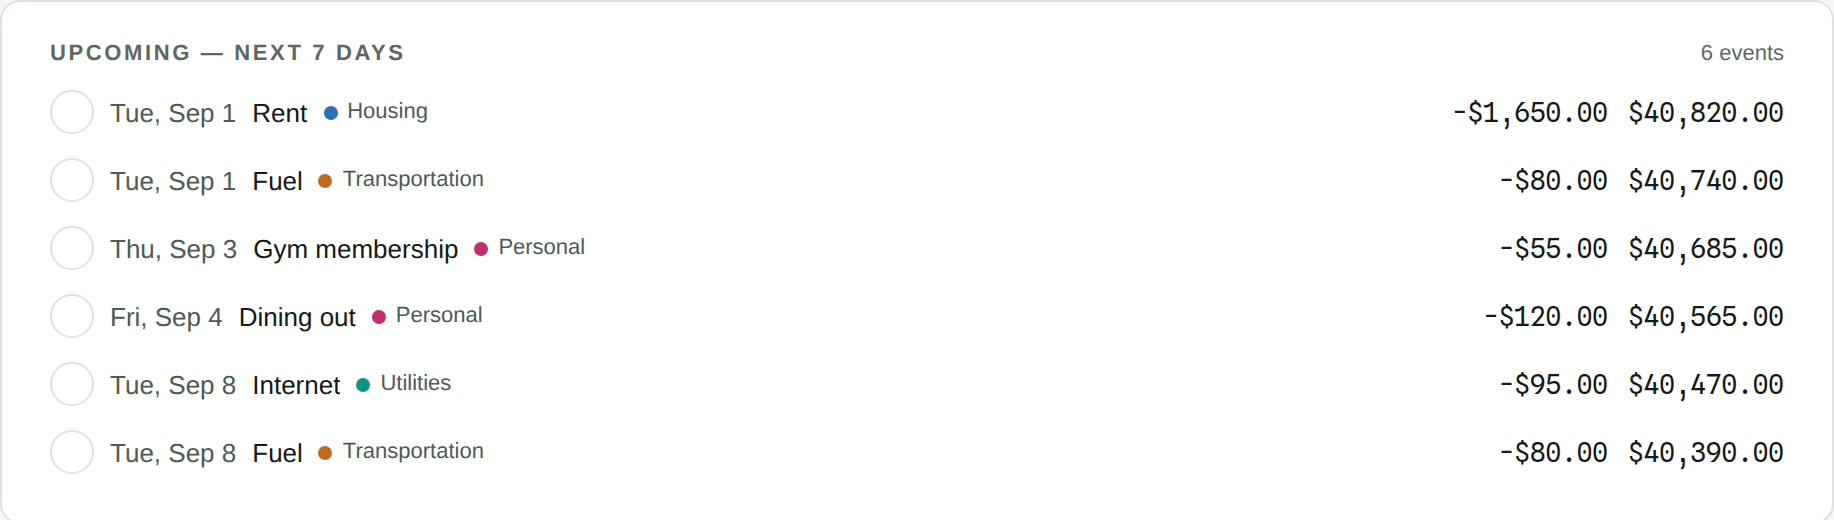
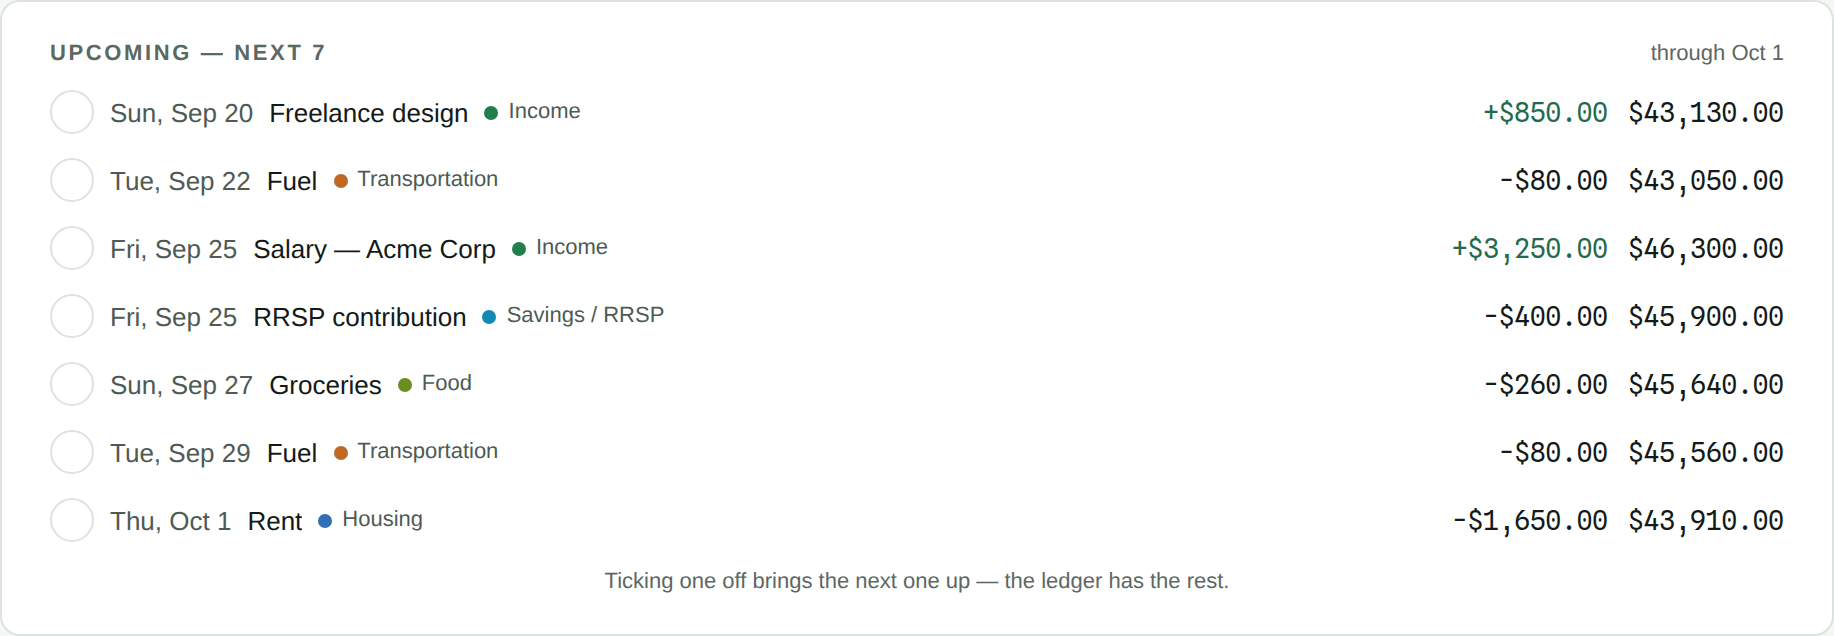
Upcoming is the next seven outstanding, not the next seven days
Reported as the card showing only two items. Two causes, and the second
is the one that was asked for.

The bug first. The card read activeFlow — one budget year — and filtered
it to a seven-day window. Seven days from the 28th of December end on
the 4th of January, so the January half of the week was not missing from
the card, it was missing from the array the card filters. Four things
due showed two, and the header count said "2 events" alongside, so
nothing on screen contradicted anything else: a panel whose job is
"nothing is about to surprise you" quietly holding back half of what was
coming. It reads every budget year now, through viewFlows, which already
carries the account view the rest of Today is in and whose per-year
opening balances carry from the last — so a row on 2 January still shows
a balance that follows on from 31 December.

That was not what the reporter hit, though: a mid-September week cannot
trigger it. Their week genuinely held two things, and a card that empties
out or fills up with the shape of the week is not much use. So the card
is now a count rather than a window: the next seven still outstanding,
in date order, however far ahead they reach. Ticking one off drops it and
brings the next one up, which is the whole point of counting items. That
makes reading every year matter more, not less — the seventh thing ahead
crosses into next year routinely, not just at New Year.

The heading carries what the reader cannot otherwise see. "Next 7" with
[…]

diff --git a/index.html b/index.html
@@ -5244,7 +5244,7 @@ document.addEventListener('DOMContentLoaded',function(){
     },
     "dashboard-upcoming": {
       "w": 917,
-      "h": 260
+      "h": 318
     },
     "plan-goals": {
       "w": 917,
@@ -14604,7 +14604,7 @@ Fill every field of the response schema. Rules:
       ) : /* @__PURE__ */ React.createElement("div", { className: "txl" }, "Compare ", MONTHS[thisMonth], " with ", MONTHS[delta.prevMonth], " and have Claude pick out what moved.")
     );
   }
-  function DashboardView({ apiKey = "", isOffline = false, flow, openBal, yearFlows, yearConfigs, alertThreshold, activeYear, budgetTargets = {}, categories = [], categoryColors = {}, users = [], sessionUser = null, entries = [], toggleComplete = () => {
+  function DashboardView({ apiKey = "", isOffline = false, flow, openBal, yearFlows, viewFlows = null, yearConfigs, alertThreshold, activeYear, budgetTargets = {}, categories = [], categoryColors = {}, users = [], sessionUser = null, entries = [], toggleComplete = () => {
   }, setYearConfigs = () => {
   }, addEntry = () => {
   }, setTab = () => {
@@ -15019,7 +15019,7 @@ Fill every field of the response schema. Rules:
       { id: "balanceToday", label: "Balance today", size: "third" },
       { id: "nextLow", label: "Next low point", size: "third" },
       { id: "dueMonth", label: "Due rest of month", size: "third" },
-      { id: "upcoming", label: "Upcoming this week", size: "full" },
+      { id: "upcoming", label: "Upcoming \u2014 next 7", size: "full" },
       { id: "endingSoon", label: "Ending-soon chips", size: "full" },
       { id: "monthlyBrief", label: "What changed this month (AI)", size: "full" },
       { id: "kpis", label: "KPI tiles", size: "full" },
@@ -15115,17 +15115,42 @@ Fill every field of the response schema. Rules:
       })()),
       upcoming: () => /* @__PURE__ */ React.createElement(React.Fragment, null, (() => {
         const today = startOfToday();
-        const in7 = new Date(today);
-        in7.setDate(today.getDate() + 7);
-        // The card shows the first six so it stays a glance. The count beside
-        // the header used to be that *shown* length, so a week with nine things
-        // due read "6 events" and the other three were nowhere — on a card
-        // whose whole job is "nothing is about to surprise you". The count is
-        // the real total now, and a footer says what is not on the card.
-        const dueThisWeek = flow.filter((ev) => ev.date >= today && ev.date <= in7 && !completed[ev.id]).sort((a, b) => a.date - b.date);
-        const upcoming = dueThisWeek.slice(0, 6);
+        // The next seven things still outstanding — a count of items, not a
+        // window of days. It used to be "everything due in the next seven
+        // days, capped at six", which made the card a hostage to the shape of
+        // the week: a quiet stretch showed two rows and looked broken, and a
+        // busy one hid the tail behind a footnote. Neither is what the card is
+        // for. Seven things, always, however far ahead they reach.
+        //
+        // Read across every budget year rather than the active one. That was
+        // already wrong for a week straddling New Year — seven days from the
+        // 28th of December end on the 4th of January, and filtering a single
+        // year's events by that range left the January half not missing from
+        // the card but missing from the array the card filters, with the
+        // count agreeing so nothing on screen contradicted anything else. It
+        // matters more now: the seventh item ahead crosses into next year
+        // routinely, not just at New Year.
+        //
+        // viewFlows is keyed by year and already carries the account view the
+        // rest of the page is in, and each year's opening balance carries from
+        // the last, so a row on 2 January still shows a balance that follows
+        // on from 31 December.
+        const byYear = viewFlows || { [activeYear]: flow };
+        const ahead = Object.keys(byYear).reduce((acc, y) => acc.concat(byYear[y] || []), [])
+          .filter((ev) => ev.date >= today && !completed[ev.id])
+          .sort((a, b) => a.date - b.date);
+        const upcoming = ahead.slice(0, 7);
         if (upcoming.length === 0) return null;
-        return /* @__PURE__ */ React.createElement(Card, { className: "mb-16" }, /* @__PURE__ */ React.createElement("div", { className: "upcoming-header-row" }, /* @__PURE__ */ React.createElement("span", { className: "upcoming-hdr-label" }, "Upcoming \u2014 Next 7 Days"), /* @__PURE__ */ React.createElement("span", { className: "upcoming-count" }, dueThisWeek.length, " event", dueThisWeek.length !== 1 ? "s" : "")), /* @__PURE__ */ React.createElement("div", { className: "upcoming-list" }, upcoming.map((ev) => {
+        const lastShown = upcoming[upcoming.length - 1].date;
+        return /* @__PURE__ */ React.createElement(Card, { className: "mb-16" }, /* @__PURE__ */ React.createElement("div", { className: "upcoming-header-row" }, /* @__PURE__ */ React.createElement("span", { className: "upcoming-hdr-label" }, "Upcoming \u2014 Next 7"), /* @__PURE__ */ React.createElement("span", { className: "upcoming-count" },
+          // How far ahead those seven reach. A bare "7 events" beside a
+          // heading that says Next 7 tells the reader nothing they cannot
+          // already see; the date they run out to is the thing they cannot.
+          // When fewer than seven remain, that is the more useful fact.
+          upcoming.length < 7
+            ? `${upcoming.length} left this year`
+            : `through ${lastShown.toLocaleDateString("en-US", { month: "short", day: "numeric" })}`
+        )), /* @__PURE__ */ React.createElement("div", { className: "upcoming-list" }, upcoming.map((ev) => {
           const d = ev.date;
           const label = d.toLocaleDateString("en-US", { weekday: "short", month: "short", day: "numeric" });
           const signed = signedAmount(ev);
@@ -15171,7 +15196,7 @@ Fill every field of the response schema. Rules:
           } }, isInc ? "+" : "-", fmt(ev.amount)), /* @__PURE__ */ React.createElement("span", { className: "cf-text-mono-13", style: {
             color: balColor
           } }, fmt(ev.balance)))), barDiv);
-        })), dueThisWeek.length > upcoming.length && /* @__PURE__ */ React.createElement("div", { className: "upcoming-more-note" }, "+ ", dueThisWeek.length - upcoming.length, " more in the next 7 days \u2014 open the ledger to see them"));
+        })), ahead.length > upcoming.length && /* @__PURE__ */ React.createElement("div", { className: "upcoming-more-note" }, "Ticking one off brings the next one up \u2014 the ledger has the rest."));
       })()),
       monthlyBrief: () => /* @__PURE__ */ React.createElement(MonthlyBriefCard, { flow, activeYear, categories, apiKey, isOffline }),
       kpis: () => /* @__PURE__ */ React.createElement(React.Fragment, null, /* @__PURE__ */ React.createElement("div", { className: "kpi-grid-4" }, /* @__PURE__ */ React.createElement(Card, { className: "kpi-tile" }, /* @__PURE__ */ React.createElement("div", { className: "lbl mb-5" }, "Annual Income"), /* @__PURE__ */ React.createElement("div", { className: "kpi-spark-row" }, /* @__PURE__ */ React.createElement("div", { className: "kpi-spark-value", style: { color: "var(--greenDk)" } }, fmt(totalIncome)), /* @__PURE__ */ React.createElement(Sparkline, { data: summaries.map((m) => m.income), height: 28, width: 64 }))), /* @__PURE__ */ React.createElement(Card, { className: "kpi-tile" }, /* @__PURE__ */ React.createElement("div", { className: "lbl mb-5" }, "Annual Expenses"), /* @__PURE__ */ React.createElement("div", { className: "kpi-spark-row" }, /* @__PURE__ */ React.createElement("div", { className: "kpi-spark-value", style: { color: "var(--text)" } }, fmt(totalExpense)), /* @__PURE__ */ React.createElement(Sparkline, { data: summaries.map((m) => m.expense), height: 28, width: 64 }))), /* @__PURE__ */ React.createElement(Card, { className: "kpi-tile" }, /* @__PURE__ */ React.createElement("div", { className: "lbl mb-5" }, "Net Surplus/Deficit"), /* @__PURE__ */ React.createElement("div", { className: "kpi-spark-row" }, /* @__PURE__ */ React.createElement("div", { className: "kpi-spark-value", style: { color: netSurplus >= 0 ? "var(--greenDk)" : "var(--red)" } }, fmt(netSurplus, true)), /* @__PURE__ */ React.createElement(Sparkline, { data: summaries.map((m) => m.surplus), height: 28, width: 64 })), netSurplus < 0 && /* @__PURE__ */ React.createElement("div", { className: "kpi-warn-note" }, "\u26A0 Spending exceeds income")), /* @__PURE__ */ React.createElement(Card, { className: "kpi-tile" }, /* @__PURE__ */ React.createElement("div", { className: "lbl mb-5" }, "Lowest Balance"), /* @__PURE__ */ React.createElement("div", { className: "kpi-spark-row" }, /* @__PURE__ */ React.createElement("div", { className: "kpi-spark-value", style: { color: lowestBal < 0 ? "var(--red)" : lowestBal < alertThreshold ? "var(--amberInk)" : "var(--text)" } }, fmt(lowestBal)), /* @__PURE__ */ React.createElement(Sparkline, { data: summaries.map((m) => m.close), height: 28, width: 64 })), /* @__PURE__ */ React.createElement("div", { className: "kpi-sub-note" }, "In ", lowestMon)))),
@@ -16016,11 +16041,11 @@ Fill every field of the response schema. Rules:
       title: "Today",
       blocks: [
         { p: "Today answers “am I all right?” at a glance, and every number on it is drawn from the same projection as the Budget tab." },
-        { shot: ["dashboard-upcoming", "Upcoming \u2014 next 7 days. The circle beside each row ticks it off; ticked rows drop out of this list."] },
+        { shot: ["dashboard-upcoming", "Upcoming \u2014 next 7. The circle beside each row ticks it off; a ticked row drops out and the next one moves up."] },
         { shot: ["dashboard-kpis", "The year as four numbers, each with a sparkline of its shape across the months."] },
         { defs: [
           ["Balance today · Next low point · Due rest of month", "The three tiles across the top: where you are now, the lowest balance coming up and how far away it is, and what is still to be paid this month."],
-          ["Upcoming — next 7 days", "Everything scheduled in the next week with its balance after, and a circle to tick each one off."],
+          ["Upcoming — next 7", "The next seven things still outstanding, each with the balance it leaves behind, and a circle to tick it off. Seven things rather than seven days: a quiet week would otherwise leave the card nearly empty, and a busy one would hide the tail of it behind a footnote. Ticking one off drops it and brings the next one up, and the heading says how far ahead the seven reach. It reads every budget year, so a run that crosses into January still shows the January half."],
           ["Annual income, expenses, surplus and lowest balance", "The year as four numbers, each with a sparkline of its shape across the months."],
           ["What changed", "A written comparison of this month against last, generated on demand when AI access is configured."],
           ["Charts", "Running balance, surplus or shortfall by month, income against expenses, top expense categories, income sources, and budget against actual for the year."],
@@ -20419,6 +20444,11 @@ Fill every field of the response schema. Rules:
         flow: activeFlow,
         openBal: activeOpenBal,
         yearFlows,
+        // Every budget year, in whatever account view the page is in. Today's
+        // "next 7 days" needs it: a week that starts in December ends in
+        // January, and activeFlow is one year, so the January half was simply
+        // not in the array to be found.
+        viewFlows,
         yearConfigs: sortedConfigs,
         alertThreshold: alertThresh,
         activeYear,

diff --git a/src/components/dashboard.js b/src/components/dashboard.js
@@ -114,7 +114,7 @@
       ) : /* @__PURE__ */ React.createElement("div", { className: "txl" }, "Compare ", MONTHS[thisMonth], " with ", MONTHS[delta.prevMonth], " and have Claude pick out what moved.")
     );
   }
-  function DashboardView({ apiKey = "", isOffline = false, flow, openBal, yearFlows, yearConfigs, alertThreshold, activeYear, budgetTargets = {}, categories = [], categoryColors = {}, users = [], sessionUser = null, entries = [], toggleComplete = () => {
+  function DashboardView({ apiKey = "", isOffline = false, flow, openBal, yearFlows, viewFlows = null, yearConfigs, alertThreshold, activeYear, budgetTargets = {}, categories = [], categoryColors = {}, users = [], sessionUser = null, entries = [], toggleComplete = () => {
   }, setYearConfigs = () => {
   }, addEntry = () => {
   }, setTab = () => {
@@ -529,7 +529,7 @@
       { id: "balanceToday", label: "Balance today", size: "third" },
       { id: "nextLow", label: "Next low point", size: "third" },
       { id: "dueMonth", label: "Due rest of month", size: "third" },
-      { id: "upcoming", label: "Upcoming this week", size: "full" },
+      { id: "upcoming", label: "Upcoming \u2014 next 7", size: "full" },
       { id: "endingSoon", label: "Ending-soon chips", size: "full" },
       { id: "monthlyBrief", label: "What changed this month (AI)", size: "full" },
       { id: "kpis", label: "KPI tiles", size: "full" },
@@ -625,17 +625,42 @@
       })()),
       upcoming: () => /* @__PURE__ */ React.createElement(React.Fragment, null, (() => {
         const today = startOfToday();
-        const in7 = new Date(today);
-        in7.setDate(today.getDate() + 7);
-        // The card shows the first six so it stays a glance. The count beside
-        // the header used to be that *shown* length, so a week with nine things
-        // due read "6 events" and the other three were nowhere — on a card
-        // whose whole job is "nothing is about to surprise you". The count is
-        // the real total now, and a footer says what is not on the card.
-        const dueThisWeek = flow.filter((ev) => ev.date >= today && ev.date <= in7 && !completed[ev.id]).sort((a, b) => a.date - b.date);
-        const upcoming = dueThisWeek.slice(0, 6);
+        // The next seven things still outstanding — a count of items, not a
+        // window of days. It used to be "everything due in the next seven
+        // days, capped at six", which made the card a hostage to the shape of
+        // the week: a quiet stretch showed two rows and looked broken, and a
+        // busy one hid the tail behind a footnote. Neither is what the card is
+        // for. Seven things, always, however far ahead they reach.
+        //
+        // Read across every budget year rather than the active one. That was
+        // already wrong for a week straddling New Year — seven days from the
+        // 28th of December end on the 4th of January, and filtering a single
+        // year's events by that range left the January half not missing from
+        // the card but missing from the array the card filters, with the
+        // count agreeing so nothing on screen contradicted anything else. It
+        // matters more now: the seventh item ahead crosses into next year
+        // routinely, not just at New Year.
+        //
+        // viewFlows is keyed by year and already carries the account view the
+        // rest of the page is in, and each year's opening balance carries from
+        // the last, so a row on 2 January still shows a balance that follows
+        // on from 31 December.
+        const byYear = viewFlows || { [activeYear]: flow };
+        const ahead = Object.keys(byYear).reduce((acc, y) => acc.concat(byYear[y] || []), [])
+          .filter((ev) => ev.date >= today && !completed[ev.id])
+          .sort((a, b) => a.date - b.date);
+        const upcoming = ahead.slice(0, 7);
         if (upcoming.length === 0) return null;
-        return /* @__PURE__ */ React.createElement(Card, { className: "mb-16" }, /* @__PURE__ */ React.createElement("div", { className: "upcoming-header-row" }, /* @__PURE__ */ React.createElement("span", { className: "upcoming-hdr-label" }, "Upcoming \u2014 Next 7 Days"), /* @__PURE__ */ React.createElement("span", { className: "upcoming-count" }, dueThisWeek.length, " event", dueThisWeek.length !== 1 ? "s" : "")), /* @__PURE__ */ React.createElement("div", { className: "upcoming-list" }, upcoming.map((ev) => {
+        const lastShown = upcoming[upcoming.length - 1].date;
+        return /* @__PURE__ */ React.createElement(Card, { className: "mb-16" }, /* @__PURE__ */ React.createElement("div", { className: "upcoming-header-row" }, /* @__PURE__ */ React.createElement("span", { className: "upcoming-hdr-label" }, "Upcoming \u2014 Next 7"), /* @__PURE__ */ React.createElement("span", { className: "upcoming-count" },
+          // How far ahead those seven reach. A bare "7 events" beside a
+          // heading that says Next 7 tells the reader nothing they cannot
+          // already see; the date they run out to is the thing they cannot.
+          // When fewer than seven remain, that is the more useful fact.
+          upcoming.length < 7
+            ? `${upcoming.length} left this year`
+            : `through ${lastShown.toLocaleDateString("en-US", { month: "short", day: "numeric" })}`
+        )), /* @__PURE__ */ React.createElement("div", { className: "upcoming-list" }, upcoming.map((ev) => {
           const d = ev.date;
           const label = d.toLocaleDateString("en-US", { weekday: "short", month: "short", day: "numeric" });
           const signed = signedAmount(ev);
@@ -681,7 +706,7 @@
           } }, isInc ? "+" : "-", fmt(ev.amount)), /* @__PURE__ */ React.createElement("span", { className: "cf-text-mono-13", style: {
             color: balColor
           } }, fmt(ev.balance)))), barDiv);
-        })), dueThisWeek.length > upcoming.length && /* @__PURE__ */ React.createElement("div", { className: "upcoming-more-note" }, "+ ", dueThisWeek.length - upcoming.length, " more in the next 7 days \u2014 open the ledger to see them"));
+        })), ahead.length > upcoming.length && /* @__PURE__ */ React.createElement("div", { className: "upcoming-more-note" }, "Ticking one off brings the next one up \u2014 the ledger has the rest."));
       })()),
       monthlyBrief: () => /* @__PURE__ */ React.createElement(MonthlyBriefCard, { flow, activeYear, categories, apiKey, isOffline }),
       kpis: () => /* @__PURE__ */ React.createElement(React.Fragment, null, /* @__PURE__ */ React.createElement("div", { className: "kpi-grid-4" }, /* @__PURE__ */ React.createElement(Card, { className: "kpi-tile" }, /* @__PURE__ */ React.createElement("div", { className: "lbl mb-5" }, "Annual Income"), /* @__PURE__ */ React.createElement("div", { className: "kpi-spark-row" }, /* @__PURE__ */ React.createElement("div", { className: "kpi-spark-value", style: { color: "var(--greenDk)" } }, fmt(totalIncome)), /* @__PURE__ */ React.createElement(Sparkline, { data: summaries.map((m) => m.income), height: 28, width: 64 }))), /* @__PURE__ */ React.createElement(Card, { className: "kpi-tile" }, /* @__PURE__ */ React.createElement("div", { className: "lbl mb-5" }, "Annual Expenses"), /* @__PURE__ */ React.createElement("div", { className: "kpi-spark-row" }, /* @__PURE__ */ React.createElement("div", { className: "kpi-spark-value", style: { color: "var(--text)" } }, fmt(totalExpense)), /* @__PURE__ */ React.createElement(Sparkline, { data: summaries.map((m) => m.expense), height: 28, width: 64 }))), /* @__PURE__ */ React.createElement(Card, { className: "kpi-tile" }, /* @__PURE__ */ React.createElement("div", { className: "lbl mb-5" }, "Net Surplus/Deficit"), /* @__PURE__ */ React.createElement("div", { className: "kpi-spark-row" }, /* @__PURE__ */ React.createElement("div", { className: "kpi-spark-value", style: { color: netSurplus >= 0 ? "var(--greenDk)" : "var(--red)" } }, fmt(netSurplus, true)), /* @__PURE__ */ React.createElement(Sparkline, { data: summaries.map((m) => m.surplus), height: 28, width: 64 })), netSurplus < 0 && /* @__PURE__ */ React.createElement("div", { className: "kpi-warn-note" }, "\u26A0 Spending exceeds income")), /* @__PURE__ */ React.createElement(Card, { className: "kpi-tile" }, /* @__PURE__ */ React.createElement("div", { className: "lbl mb-5" }, "Lowest Balance"), /* @__PURE__ */ React.createElement("div", { className: "kpi-spark-row" }, /* @__PURE__ */ React.createElement("div", { className: "kpi-spark-value", style: { color: lowestBal < 0 ? "var(--red)" : lowestBal < alertThreshold ? "var(--amberInk)" : "var(--text)" } }, fmt(lowestBal)), /* @__PURE__ */ React.createElement(Sparkline, { data: summaries.map((m) => m.close), height: 28, width: 64 })), /* @__PURE__ */ React.createElement("div", { className: "kpi-sub-note" }, "In ", lowestMon)))),

diff --git a/src/components/help.js b/src/components/help.js
@@ -193,11 +193,11 @@
       title: "Today",
       blocks: [
         { p: "Today answers “am I all right?” at a glance, and every number on it is drawn from the same projection as the Budget tab." },
-        { shot: ["dashboard-upcoming", "Upcoming \u2014 next 7 days. The circle beside each row ticks it off; ticked rows drop out of this list."] },
+        { shot: ["dashboard-upcoming", "Upcoming \u2014 next 7. The circle beside each row ticks it off; a ticked row drops out and the next one moves up."] },
         { shot: ["dashboard-kpis", "The year as four numbers, each with a sparkline of its shape across the months."] },
         { defs: [
           ["Balance today · Next low point · Due rest of month", "The three tiles across the top: where you are now, the lowest balance coming up and how far away it is, and what is still to be paid this month."],
-          ["Upcoming — next 7 days", "Everything scheduled in the next week with its balance after, and a circle to tick each one off."],
+          ["Upcoming — next 7", "The next seven things still outstanding, each with the balance it leaves behind, and a circle to tick it off. Seven things rather than seven days: a quiet week would otherwise leave the card nearly empty, and a busy one would hide the tail of it behind a footnote. Ticking one off drops it and brings the next one up, and the heading says how far ahead the seven reach. It reads every budget year, so a run that crosses into January still shows the January half."],
           ["Annual income, expenses, surplus and lowest balance", "The year as four numbers, each with a sparkline of its shape across the months."],
           ["What changed", "A written comparison of this month against last, generated on demand when AI access is configured."],
           ["Charts", "Running balance, surplus or shortfall by month, income against expenses, top expense categories, income sources, and budget against actual for the year."],

diff --git a/sw.js b/sw.js
@@ -1,5 +1,5 @@
 // CashFlow service worker. Built to sw.js at the repo root by build.js, which
-// substitutes v190-95ced06081a4 with the CF_VERSION constant in bootstrap-head.js
+// substitutes v190-a2ada3f01b06 with the CF_VERSION constant in bootstrap-head.js
 // so the cache name and the app bundle always bump together.
 //
 // This has to be a real same-origin file: it used to be registered from a
@@ -9,7 +9,7 @@
 // way to receive Web Push — push events are delivered to the worker, not to a
 // page — and on Android it's the only way to show a notification at all
 // (Chrome for Android does not implement the `new Notification()` constructor).
-const CACHE = 'cf-v190-95ced06081a4';
+const CACHE = 'cf-v190-a2ada3f01b06';
 
 self.addEventListener('install', (e) => {
   e.waitUntil(

diff --git a/src/App.js b/src/App.js
@@ -1662,6 +1662,11 @@
         flow: activeFlow,
         openBal: activeOpenBal,
         yearFlows,
+        // Every budget year, in whatever account view the page is in. Today's
+        // "next 7 days" needs it: a week that starts in December ends in
+        // January, and activeFlow is one year, so the January half was simply
+        // not in the array to be found.
+        viewFlows,
         yearConfigs: sortedConfigs,
         alertThreshold: alertThresh,
         activeYear,

diff --git a/src/lib/help-shots.js b/src/lib/help-shots.js
@@ -32,7 +32,7 @@
     },
     "dashboard-upcoming": {
       "w": 917,
-      "h": 260
+      "h": 318
     },
     "plan-goals": {
       "w": 917,

diff --git a/README.md b/README.md
@@ -159,7 +159,7 @@ the active-year switch and the phone's type pills — and none had a test. The t
 sweeps disagree about what they find, which is the point of running both.
 
 `node tests/regression.mjs <substring>` runs only the tests whose name contains
-it. The whole suite is a hundred and seventy-one browser tests and about twenty
+it. The whole suite is a hundred and seventy-two browser tests and about twenty
 minutes, so a one-line fix should not cost a full pass. No argument runs
 everything, which is what CI does, and the count line says when a run was
 filtered so a narrowed run cannot be read as a green one.
